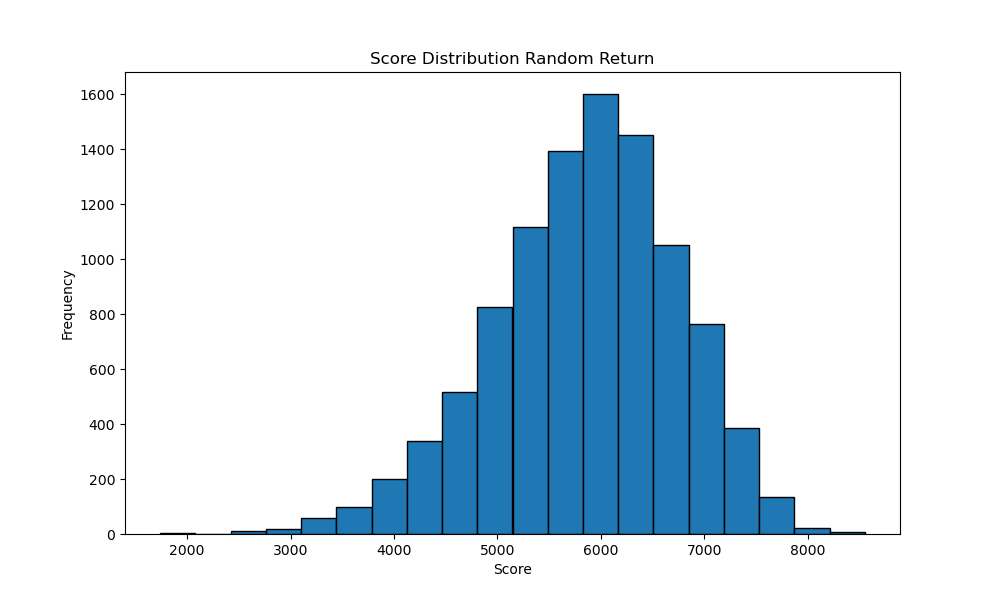
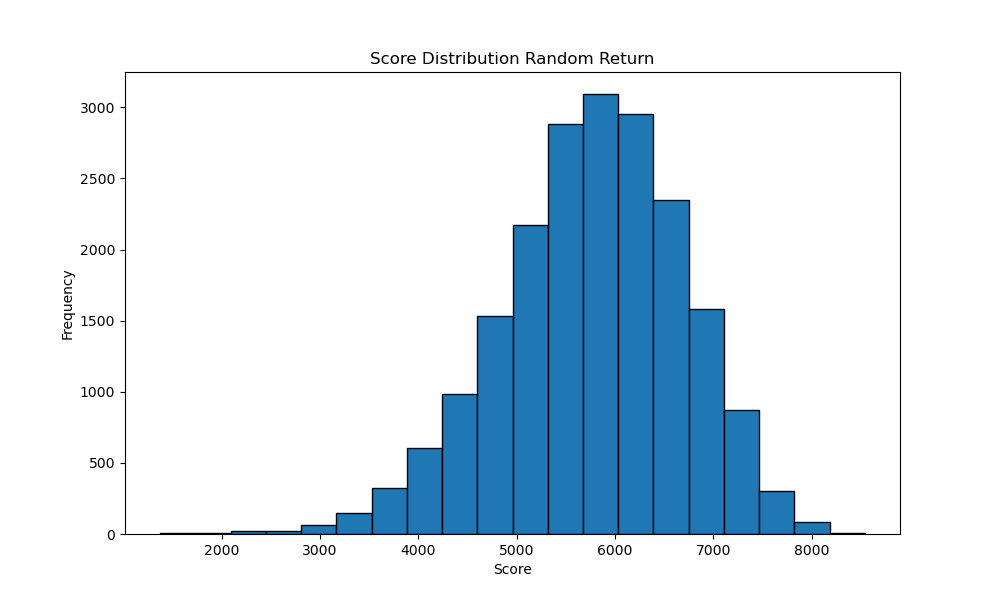
new plots

diff --git a/main.py b/main.py
@@ -34,8 +34,8 @@ def main():
     random_nr_results.to_csv('output/output_nr.csv')
 
     # calculate and plot score distribution
-    ScoreDistribution(10000, Random_R, all_connections, 'output/score_distribution_r.png', 'Score Distribution Random Return', 7, all_connections, 120)
-    ScoreDistribution(10000, Random_NR, all_connections, 'output/score_distribution_nr.png', 'Score Distribution Random No Return', 7, all_connections, 120)
+    ScoreDistribution(20000, Random_R, all_connections, 'output/score_distribution_r.png', 'Score Distribution Random Return', 7, all_connections, 120)
+    ScoreDistribution(20000, Random_NR, all_connections, 'output/score_distribution_nr.png', 'Score Distribution Random No Return', 7, all_connections, 120)
 
     # plot the trajectories
     plotter = TrainNetwork('data/ConnectiesHolland.csv', 'data/StationsHolland.csv')
